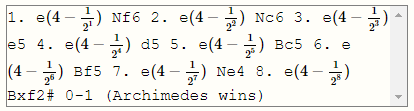
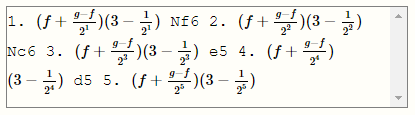
Closing statement: Tweaked zeno PGN image to include "algebraic" element more clearly, fixed a typo

diff --git a/process/closing-statement.md b/process/closing-statement.md
@@ -42,7 +42,7 @@ Eventually, however, even being able to move on the board felt like a degree of 
 
 ![](images/prometheus-checkmate.png)
 
-I was completely happy with this version, but my colleague [Jonathan Lessard](https://jonathanlessard.net/) expressed after playtesting that he missed the visceral idea of pecking and suggested adopting a technique we'd been using for a version of our game [Chogue](https://www.pippinbarr.com/games/2018/07/12/chogue.html) (subsequently released as [Rogess](https://github.com/pippinbarr/rogess)) in which pieces effectively "peck" each other, swooping in to do damage and then returning to their original position. Interestingly, this echoed [suggestions I'd heard from the students in my programming class](https://github.com/pippinbarr/lets-play-ancient-greek-punishment-chess-edition/blob/master/process/process-journal.md#prometheus-bound) that "swooping" pieces might better evoke the sense of an eagle. It's important to listen to strong feedback, and I [implemented this more overt pecking version](https://github.com/pippinbarr/lets-play-ancient-greek-punishment-chess-edition/blob/master/process/process-journal.md#feeling-peckish) right away (https://github.com/pippinbarr/lets-play-ancient-greek-punishment-chess-edition/commit/fe2c3d07ee057d789982ab99eccf03c6e17edffc).
+I was completely happy with this version, but my colleague [Jonathan Lessard](https://jonathanlessard.net/) expressed after playtesting that he missed the visceral idea of pecking and suggested adopting a technique we'd been using for a version of our game [Chogue](https://www.pippinbarr.com/games/2018/07/12/chogue.html) (subsequently released as [Rogess](https://github.com/pippinbarr/rogess)) in which pieces effectively "peck" each other, swooping in to do damage and then returning to their original position. Interestingly, this echoed [suggestions I'd heard from the students in my programming class](https://github.com/pippinbarr/lets-play-ancient-greek-punishment-chess-edition/blob/master/process/process-journal.md#prometheus-bound) that "swooping" pieces might better evoke the sense of an eagle. It's important to listen to strong feedback, and I [implemented this more overt pecking version](https://github.com/pippinbarr/lets-play-ancient-greek-punishment-chess-edition/blob/master/process/process-journal.md#feeling-peckish) right away ([fe2c3d07](https://github.com/pippinbarr/lets-play-ancient-greek-punishment-chess-edition/commit/fe2c3d07ee057d789982ab99eccf03c6e17edffc)).
 
 ![](images/prometheus-peck.gif)
 
